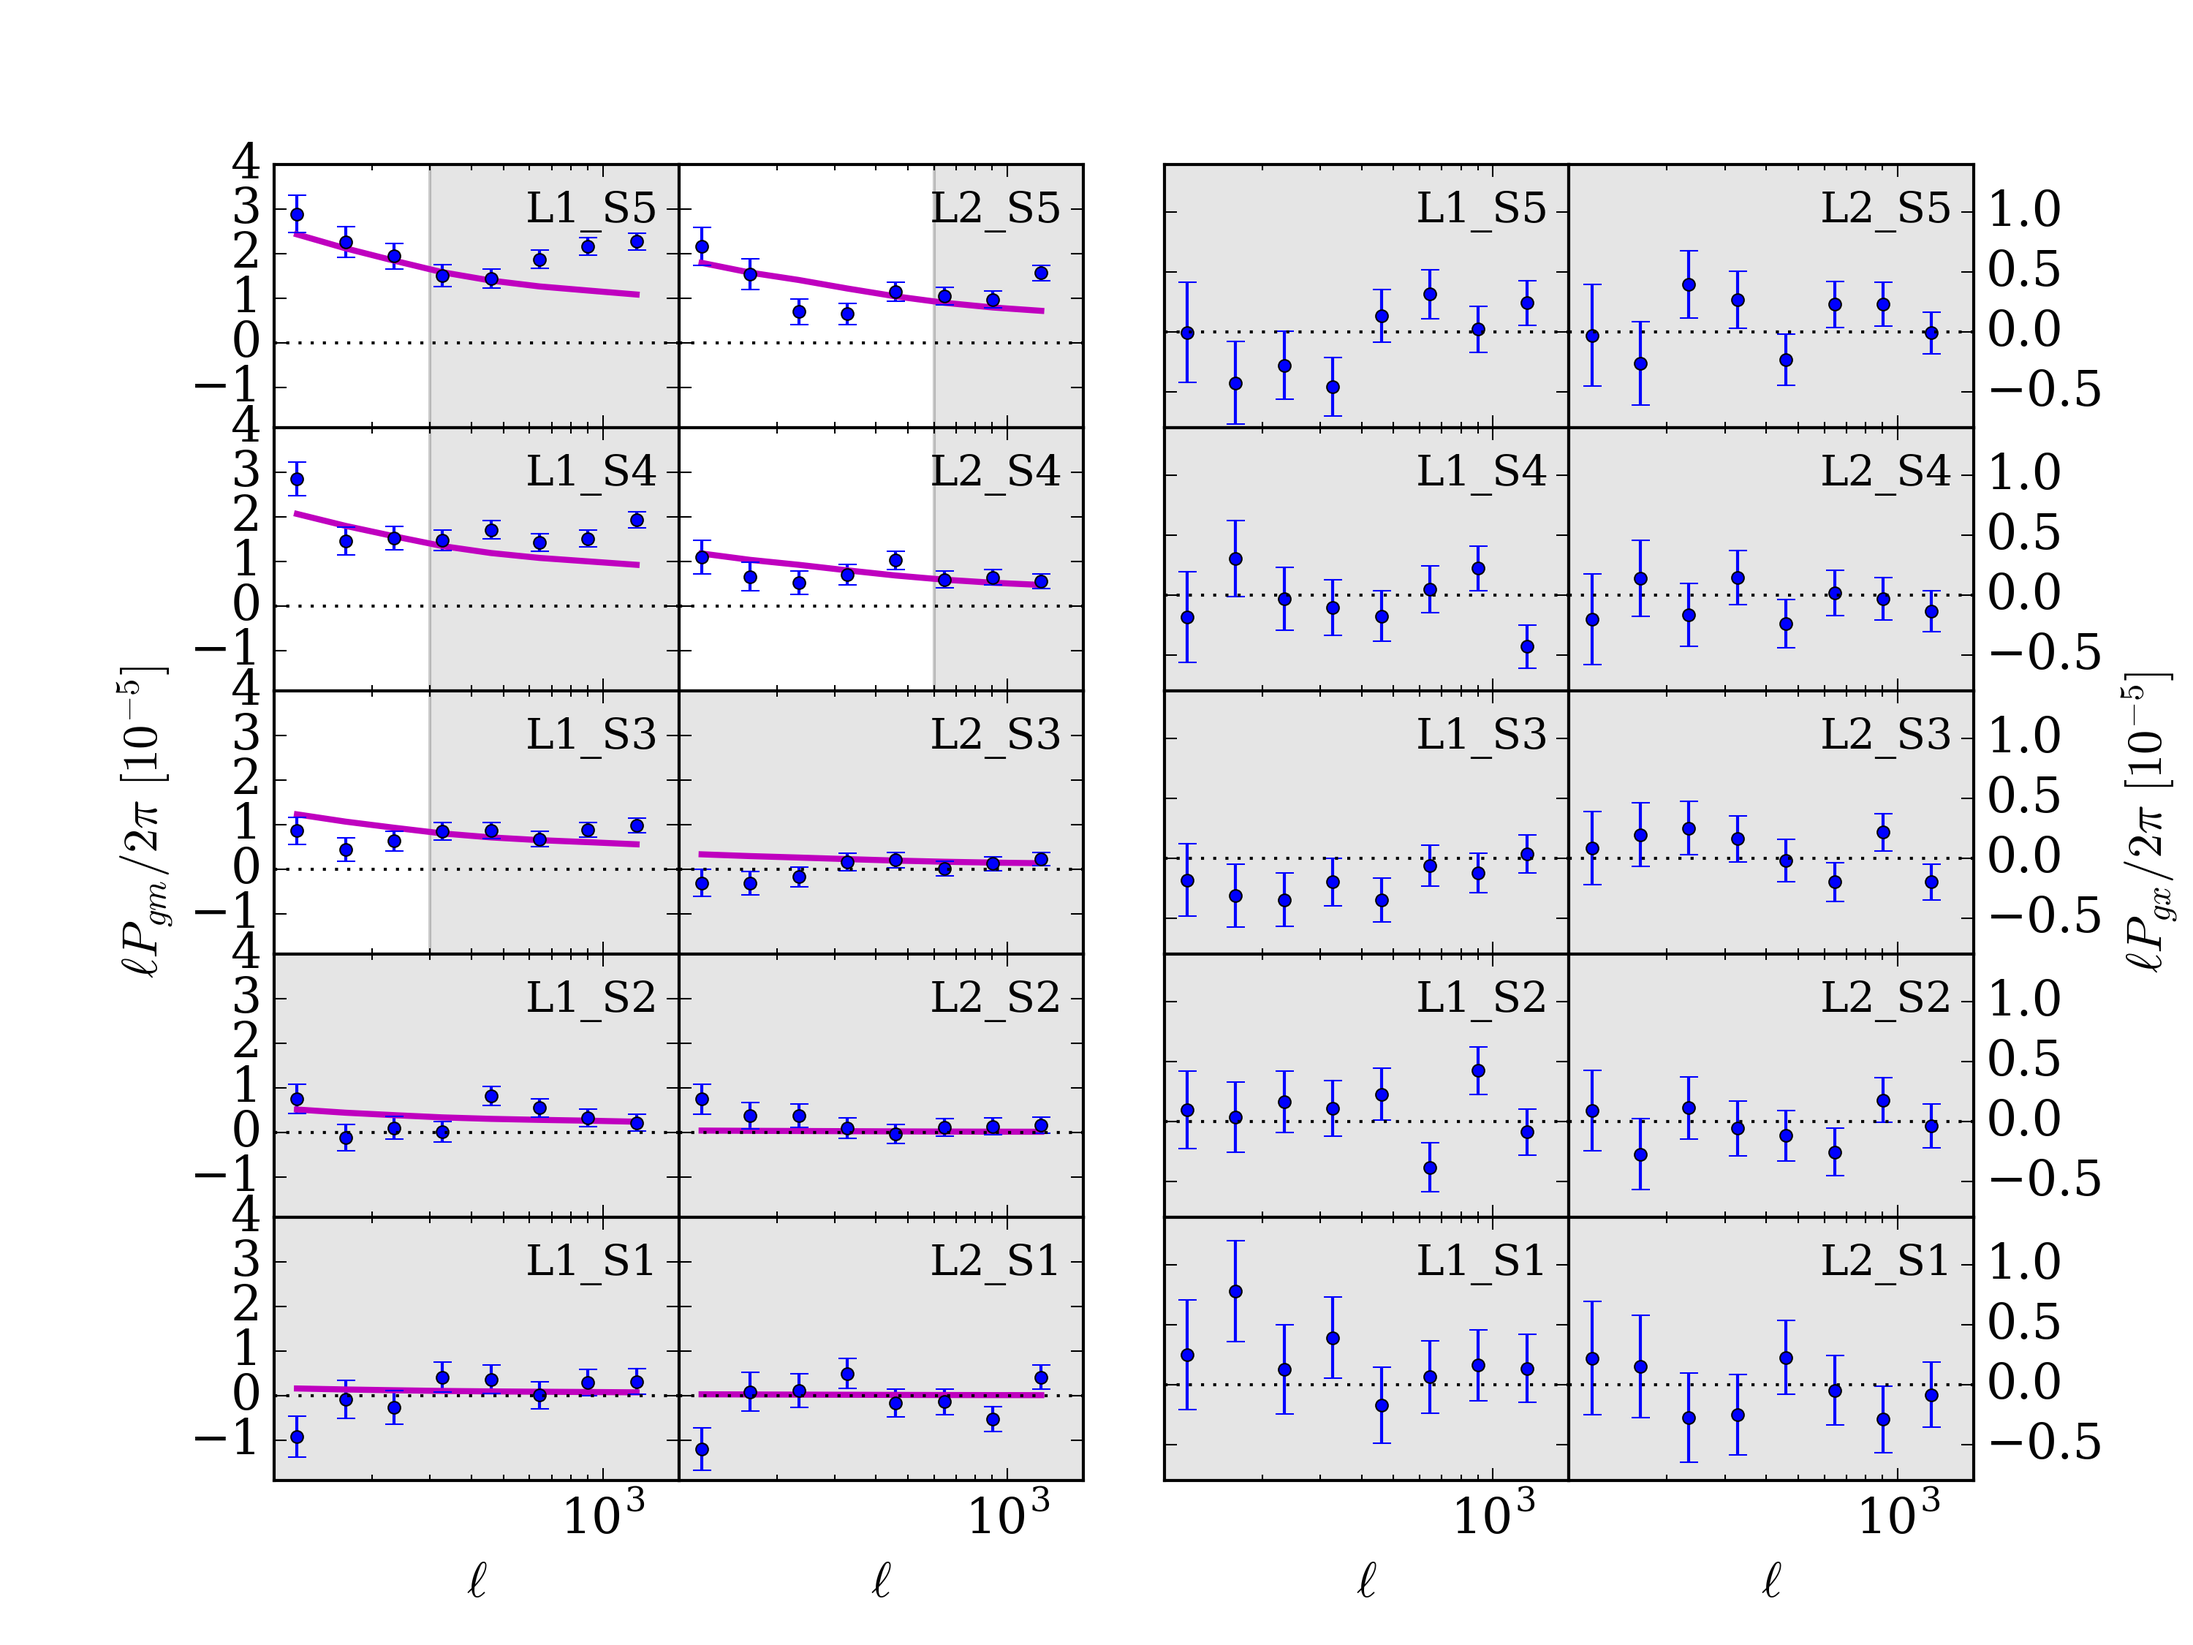
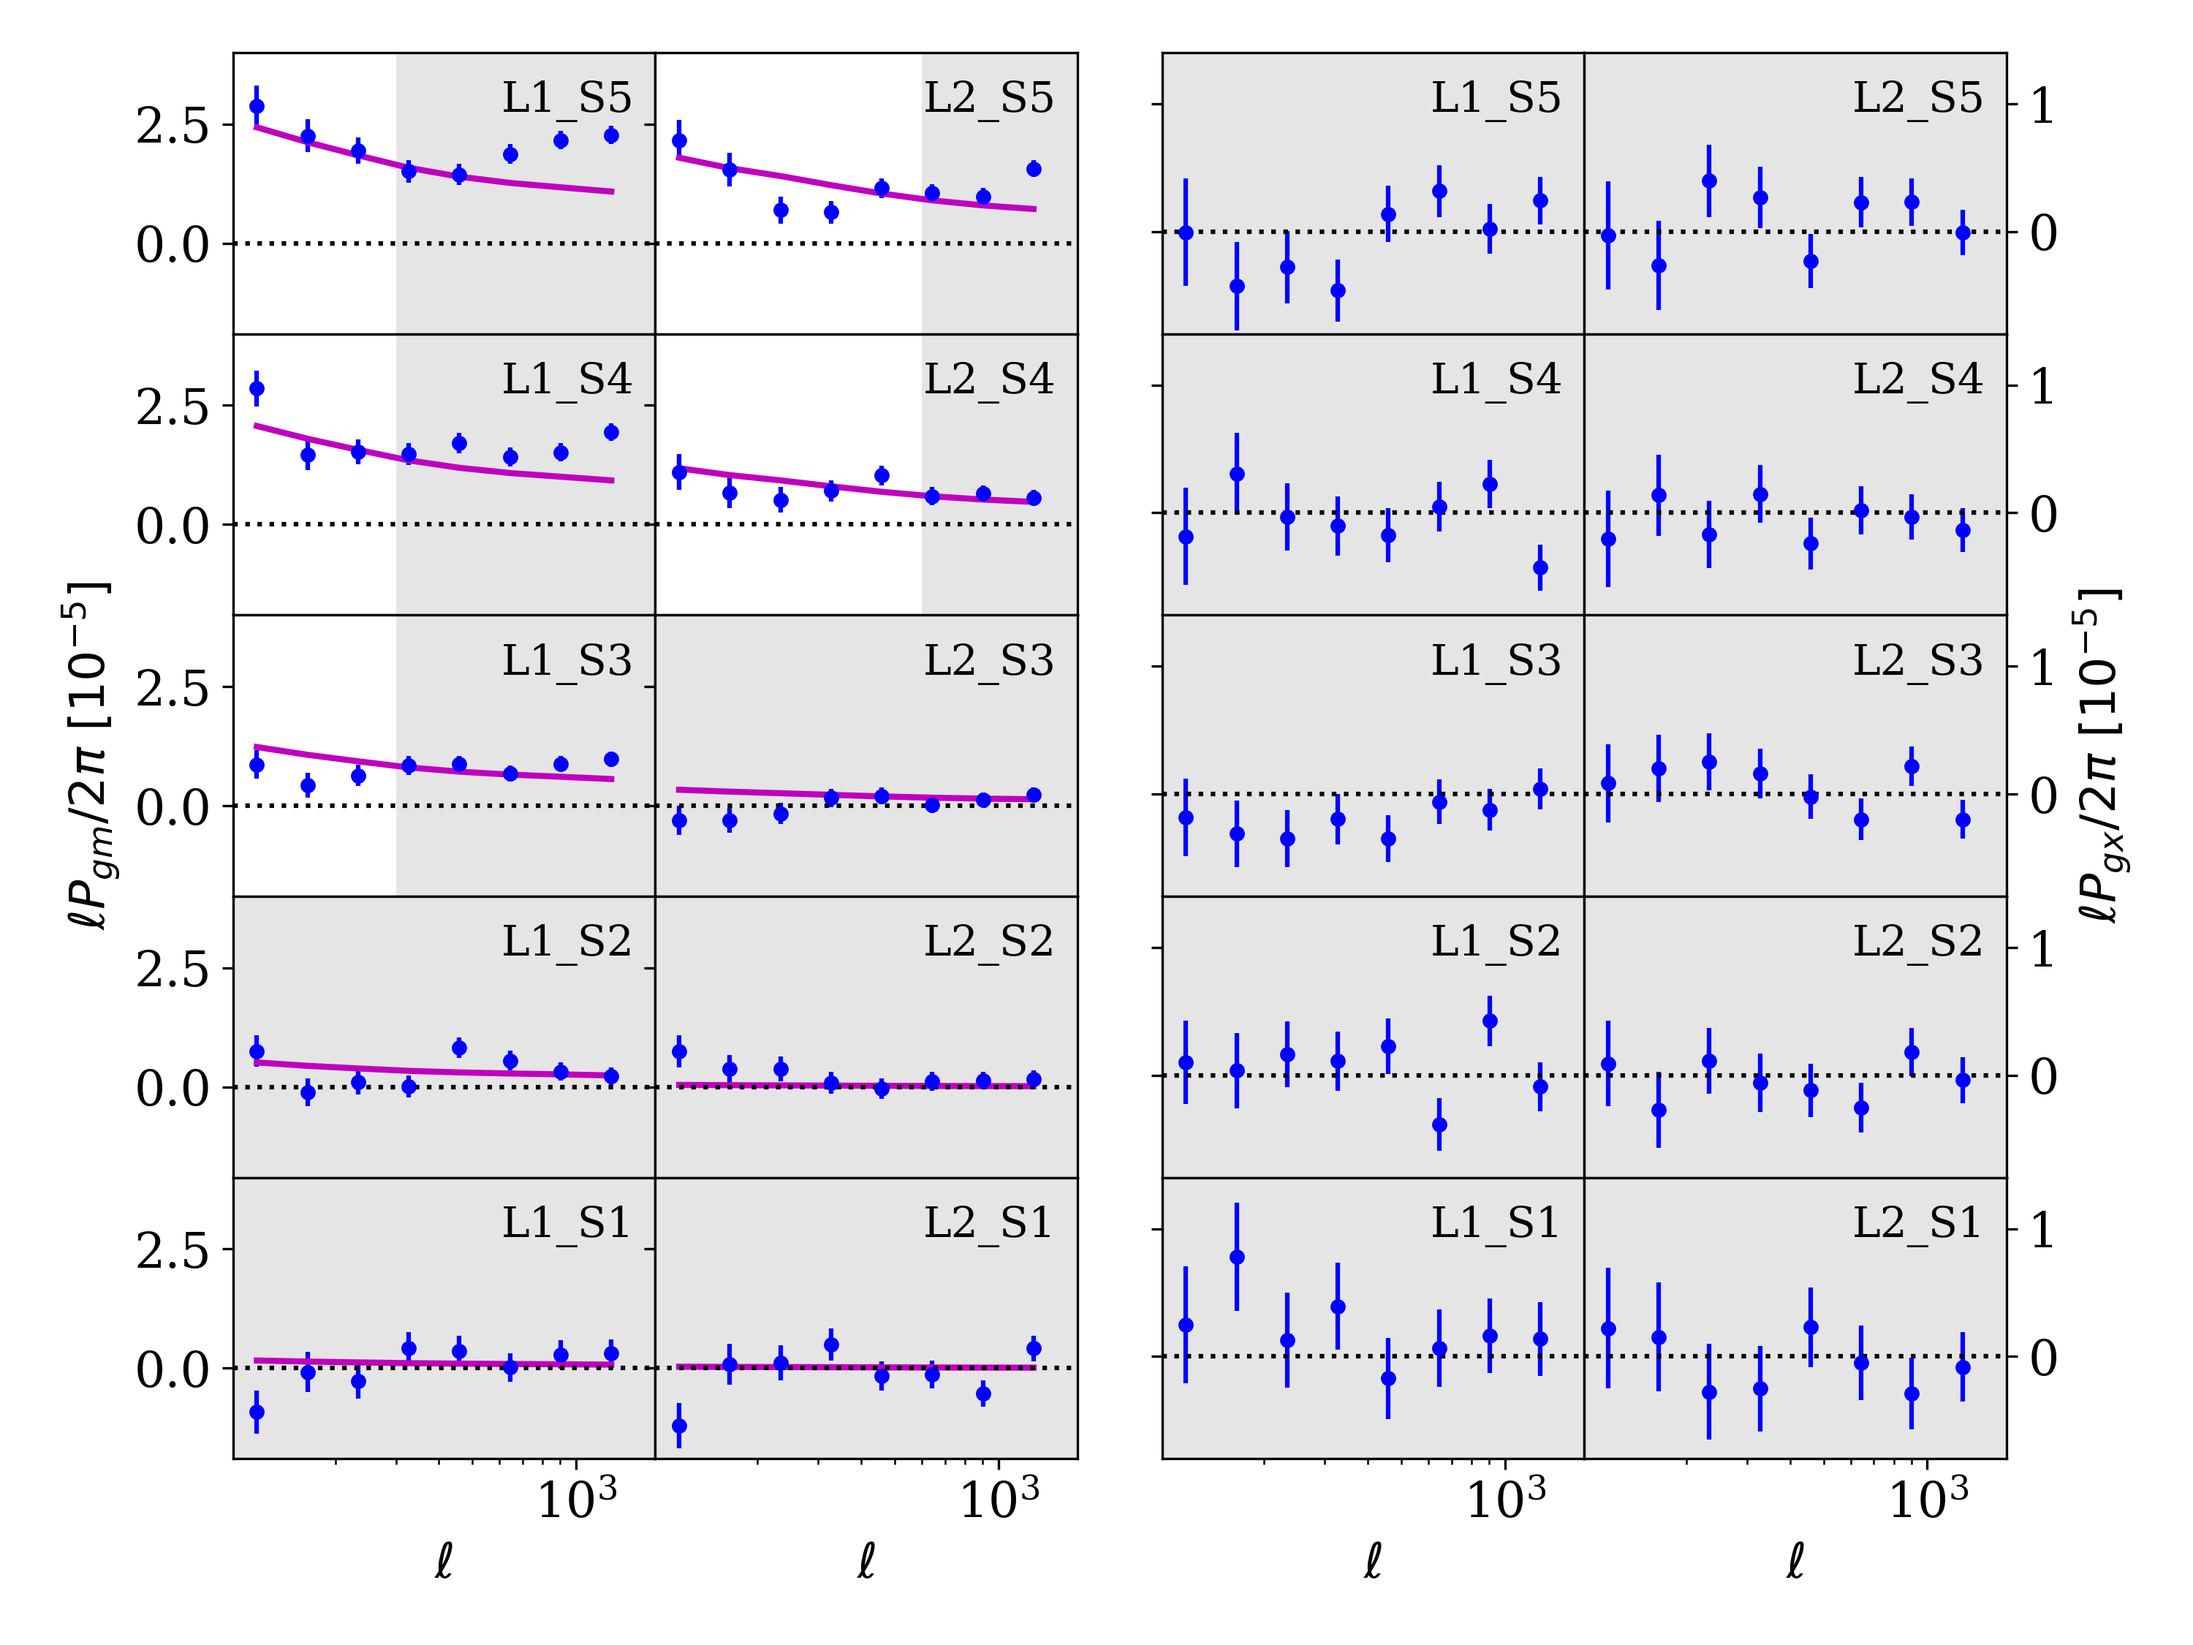
Updated the plots with python3

diff --git a/Data_Plots/Pgk/plot_Pgk_bandpowers.py b/Data_Plots/Pgk/plot_Pgk_bandpowers.py
@@ -30,7 +30,7 @@ fig, axes = plt.subplots(nrows=5, ncols=5, gridspec_kw=gridspec, figsize=(10, 7.
 #    BLIND=sys.argv[2] # blind
 
 LFVER="2Dbins_v2_goldclasses_Flag_SOM_Fid" 
-BLIND="B"
+BLIND="C"
 
 # number of tomographic bins, and band power modes to plot
 ntomobin=5
@@ -65,8 +65,8 @@ filetail='nbins_8_Ell_100.0_1500.0_zbins'
 # theory curves
 #read in the expectation value for the Emode cosmic shear signal
 #MD='/home/cech/KiDSLenS/Cat_to_Obs_K1000_P1/'
-#MD='/Users/macleod/CH_work/Cat_to_Obs_K1000_P1/'
-MD='/Users/heymans/KiDS/Cat_to_Obs_K1000_P1/'
+MD='/Users/macleod/CH_work/Cat_to_Obs_K1000_P1/'
+#MD='/Users/heymans/KiDS/Cat_to_Obs_K1000_P1/'
 
 #Set the x/y limits
 xmin=101
@@ -193,7 +193,7 @@ axes[2,0].set_ylabel('$\ell P_{gm} / 2\pi \,\, [10^{-5}]$')
 for blankgrid in range(5):
     axes[blankgrid,2].set_visible(False)
 
-#plt.tight_layout()
+plt.tight_layout()
 
 outfile='Pgk_K1000_%s_%s.png'%(LFVER,BLIND)
 plt.savefig(outfile,dpi=300)

diff --git a/Data_Plots/Pkk/plot_Pkk_bandpowers.py b/Data_Plots/Pkk/plot_Pkk_bandpowers.py
@@ -29,7 +29,7 @@ fig,axes= plt.subplots(6,7,figsize=(10, 7.5),gridspec_kw={'hspace': 0, 'wspace':
 #    BLIND=sys.argv[2] # blind
 
 LFVER="2Dbins_v2_goldclasses_Flag_SOM_Fid" 
-BLIND="C"
+BLIND="A"
 
 # number of tomographic bins, and band power modes to plot
 ntomobin=5
@@ -64,8 +64,8 @@ filetail='nbins_8_Ell_100.0_1500.0_zbins'
 # theory curves
 #read in the expectation value for the Emode cosmic shear signal
 #MD='/home/cech/KiDSLenS/Cat_to_Obs_K1000_P1/'
-#MD='/Users/macleod/CH_work/Cat_to_Obs_K1000_P1/'
-MD='/Users/heymans/KiDS/Cat_to_Obs_K1000_P1/'
+MD='/Users/macleod/CH_work/Cat_to_Obs_K1000_P1/'
+#MD='/Users/heymans/KiDS/Cat_to_Obs_K1000_P1/'
 
 #Set the x/y limits
 xmin=101
@@ -172,7 +172,7 @@ for i in range(6):
     axes[i,blankgrid].set_visible(False)
     axes[i,blankgrid-1].set_visible(False)
 
-#plt.tight_layout()
+plt.tight_layout()
 
 outfile='Pkk_K1000_%s_%s.png'%(LFVER,BLIND)
 plt.savefig(outfile,dpi=300)
